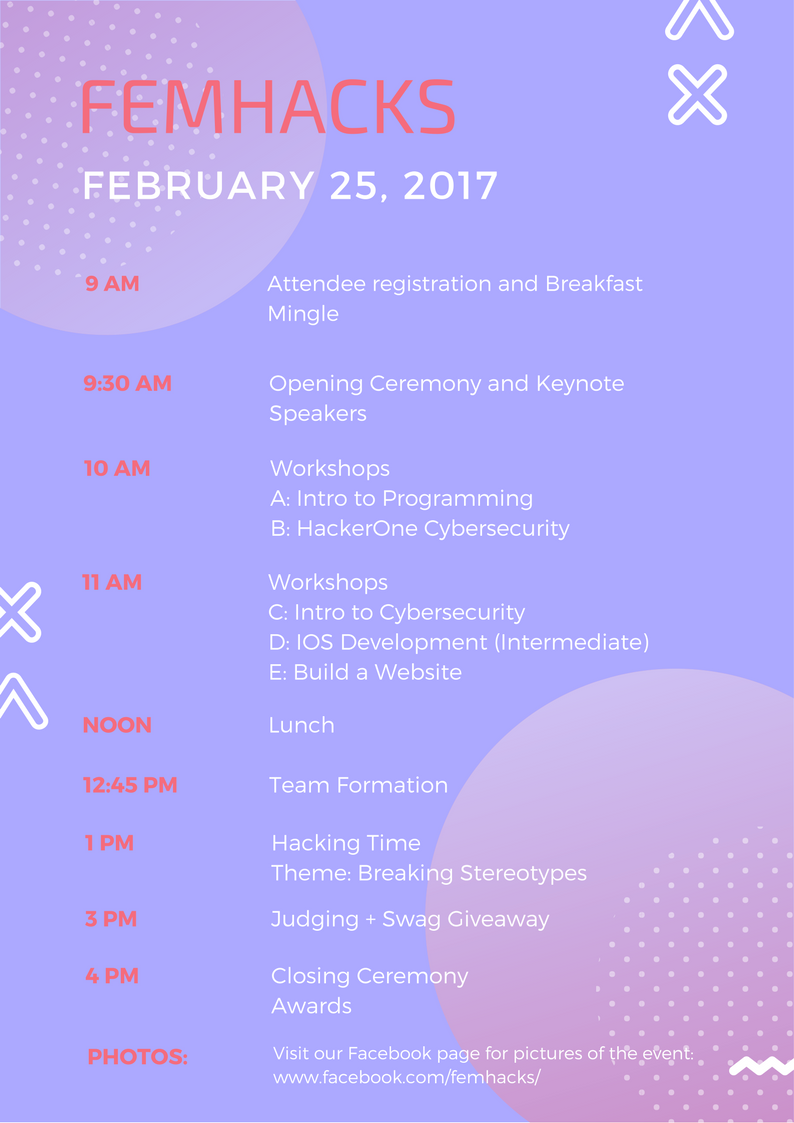
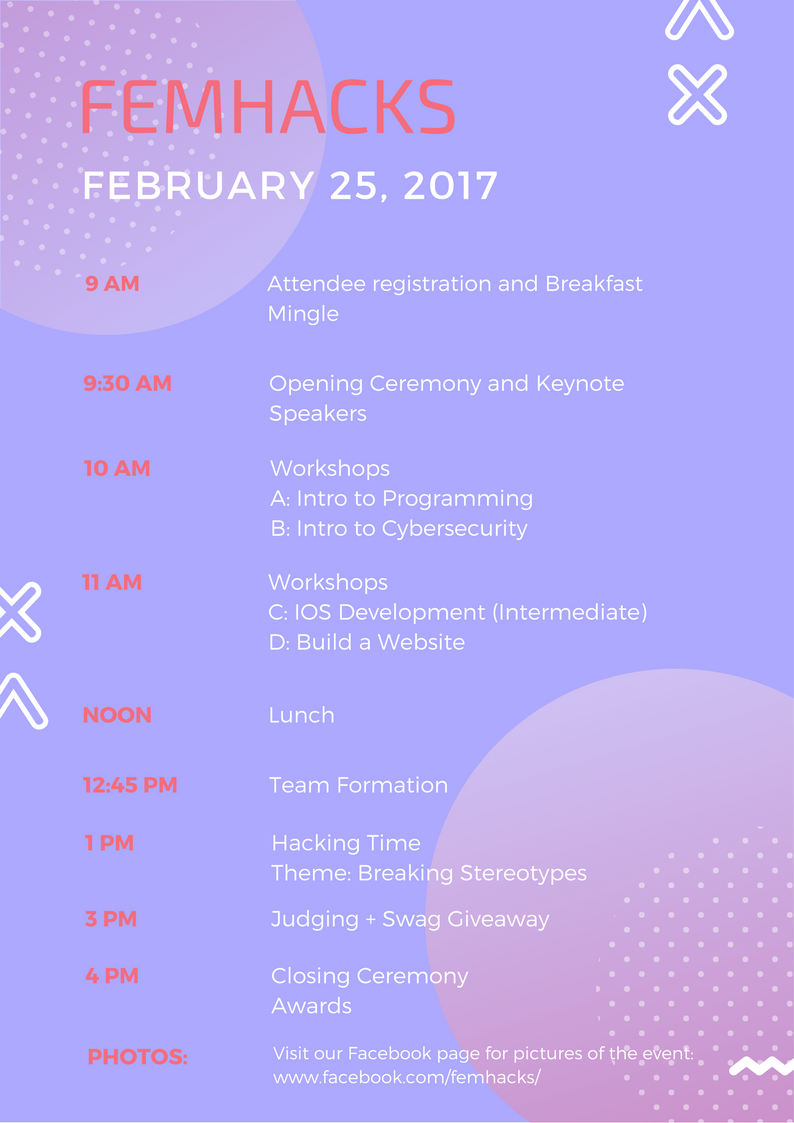
no hacker one

diff --git a/index.html b/index.html
@@ -176,7 +176,7 @@
 									<li>
 									
 										<h3>Introduction to CyberSecurity</h3>
-										<p>With two different workshops on the topic of cybersecuity, HackerOne and Stanford University student Maggie Engler will teach the basic concepts of cybersecurity with fun activities. </p>
+										<p>Stanford University student Maggie Engler will teach the basic concepts of cybersecurity with fun activities. </p>
 									</li>
 									<li>
 
